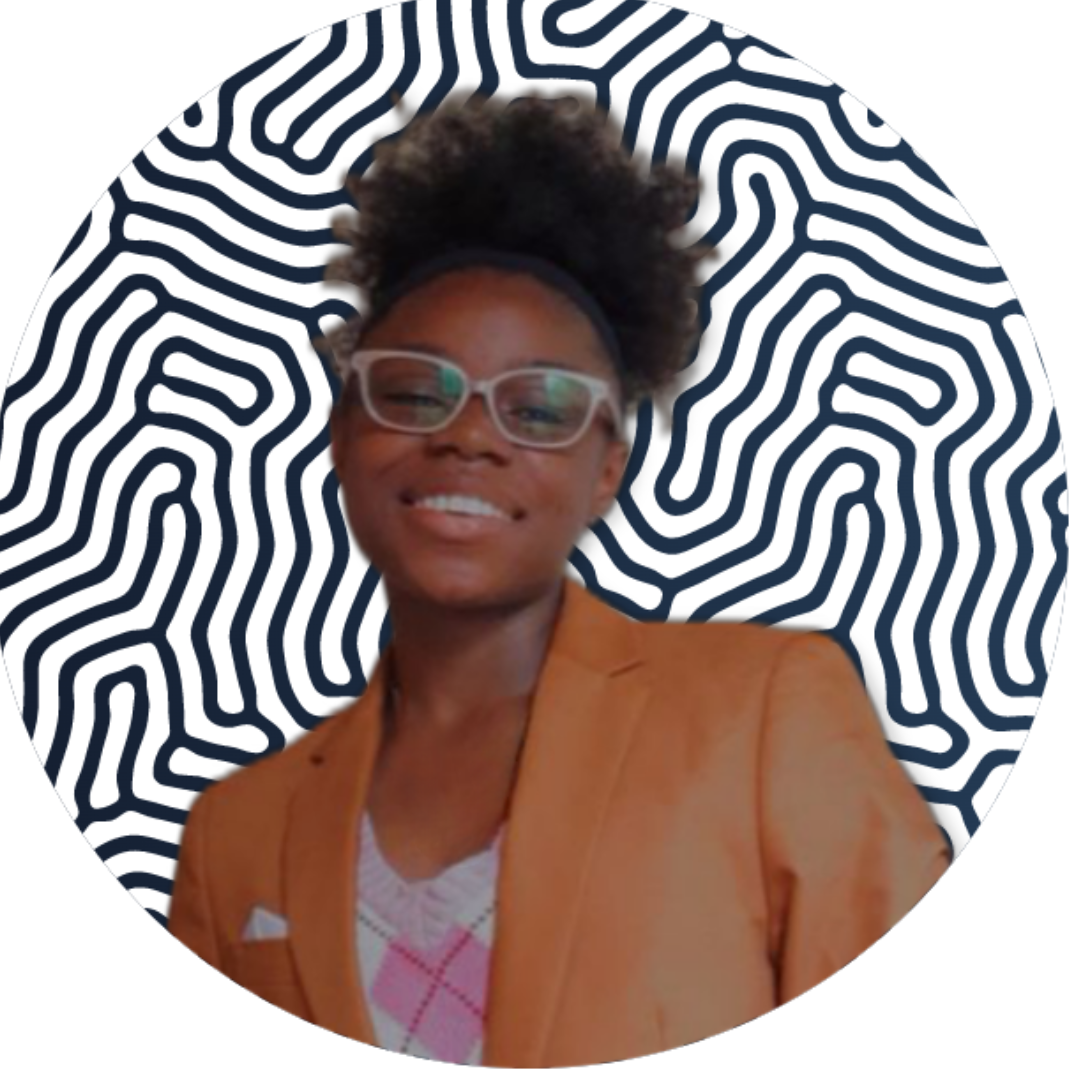
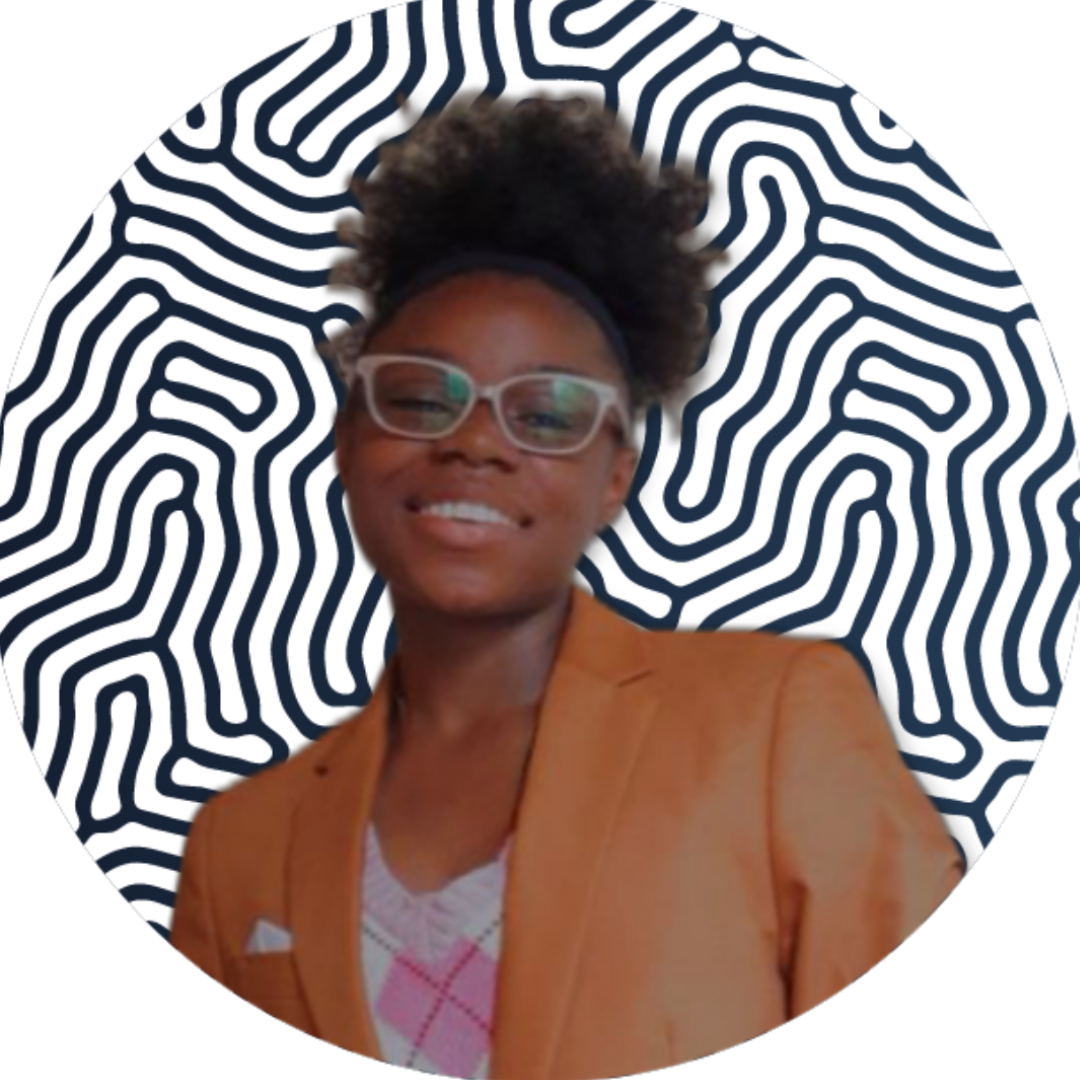
done main

diff --git a/index.html b/index.html
@@ -15,10 +15,8 @@
         <div class="container">
             <header> 
                 <img class="jadepic" src="images/jade.png" alt=" Picture of Jade Palmer smiling">
-                <div class ="title-container">
                     <h1 class="title-name"> Jade's Blog</h1>
                     <p class="title-sub">Upcoming Digital Entrepreneur</p>
-                </div>
             </header>
             <main>
                 <article>
@@ -58,7 +56,8 @@
                 <article>
                     <img class="blogpic" src="images/teach.jpg" alt="stocks">
                     <h2 class="blog-title">Blog Post 2</h2>
-                    <p class="date"> September 26, 2025</p>
+                    <p class="date_author"> September 26, 2025</p>
+                    <p class="date_author">Jade Palmer</p>
                     <p>
                                 Lorem ipsum dolor sit amet, consectetur adipiscing elit. Donec ornare nisl non neque porttitor mollis. Etiam convallis
                         velit ut magna lacinia, in aliquet ipsum efficitur. Nullam consequat porttitor diam, faucibus ultrices augue facilisis vel. 
@@ -94,7 +93,7 @@
                     <h3 class="about-heading">About Me</h3>
                     <p>
                         Hello! I'm Jade and I'm an upcoming digital entrepreneur. I love the idea of making ideas a reality with the help of technology. 
-                        In my free time, I play the keyboard, do some music production, or swim.
+                        In my free time, I play the keyboard, workout, read, and watch YouTube videos.
                     </p>
                 </div>
                 <div class = "socials_archives">
@@ -104,7 +103,7 @@
                             <li><a href="https://youtu.be/xvFZjo5PgG0?si=nIenPHk2VFWtm6_H">Checkout My LinkedIn!</a></li>
                             <li><a href="https://youtu.be/xvFZjo5PgG0?si=nIenPHk2VFWtm6_H">Checkout My Facebook!</a></li>
                         </ul>
-                    <h3 class = social_archive-heading>Archives</h3>
+                    <h3 class = "social_archive-heading">Archives</h3>
                         <ul>
                             <li><a href="https://youtu.be/xvFZjo5PgG0?si=nIenPHk2VFWtm6_H">Jay's Blogs from September, 2025</a></li>
                             <li><a href="https://youtu.be/xvFZjo5PgG0?si=nIenPHk2VFWtm6_H">Jay's Blogs from August, 2025</a></li>

diff --git a/styles.css b/styles.css
@@ -20,6 +20,21 @@ aside{
 
 footer{
     grid-column: 1/3;
+    background-color: #2C5282 ;
+    color: #ffffff
+}
+
+.about{
+    background-color: #E2E8F0;
+    padding-top: 5px;
+    padding-left: 20px;
+    padding-right: 20px;
+    padding-bottom: 10px;
+    border-radius: 8px;
+}
+
+.socials_archives a{
+    color: #4299E1;
 }
 
 .social_archive-heading{
@@ -43,6 +58,7 @@ h3{
     display: block;
     margin-left: auto;
     margin-right: auto;
+    border-radius: 50%;
 }
 
 .title-name{
@@ -56,14 +72,18 @@ h3{
     font-size: 12px;
     padding: 0; 
     width: 100%; 
+    text-align: center;
 }
 
 header{
     background-color: #63B3ED ;
     padding: 20px;
-    text-align: center;
     grid-column: 1/3;
     color: white;
+    display: flex;              
+    flex-direction: column;    
+    align-items: center;      
+    justify-content: center;
 }
 
 body {
